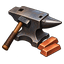
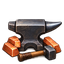
Remake profession props with four cardinal artwork views

diff --git a/tests/map-furniture.test.ts b/tests/map-furniture.test.ts
@@ -5,7 +5,7 @@ import {gridMap,buildingVisuals,craftingStations,modularFurniture,furniturePiece
 test('three connected counter cells wrap each corner NPC without changing authored collision',()=>{
  for(const station of craftingStations){if(!('bench'in station))continue;
  const map=gridMap('elderwood'),before=[...map.blocked],visuals=buildingVisuals('elderwood',map.objects,false),pieces=visuals.filter(o=>o.sourceKey===station.bench.key);
- const bases=pieces.filter(p=>p.key.startsWith('counter-connected-'));assert.equal(bases.length,3);assert.equal(pieces.filter(p=>p.key.startsWith('counter-tools-')).length,1);
+ const bases=pieces.filter(p=>p.key.startsWith('counter-connected-'));assert.equal(bases.length,3);assert.equal(pieces.filter(p=>p.key.startsWith('counter-tools-')).length,1);assert.ok(pieces.some(p=>p.key===`counter-tools-${station.skills[0]}-${station.npc.facing}`));
  for(const [x,y]of station.bench.cells){const p=bases.find(p=>p.x===x*48&&p.y===(y-.25)*48)!;assert.ok(p);assert.equal(p.w,48);assert.equal(p.h,60);assert.ok(map.blocked.has(`${x},${y}`));
  const mask=Number(p.key.split('-').at(-1));const cells=new Set(station.bench.cells.map(([x,y])=>`${x},${y}`));
  for(const [dx,dy,bit]of [[0,-1,1],[1,0,2],[0,1,4],[-1,0,8]])assert.equal(!!(mask&bit),cells.has(`${x+dx},${y+dy}`));
@@ -18,4 +18,12 @@ test('all modular furniture uses one native scale with reusable ends and no inte
  for(const [i,p]of pieces.entries()){const file=new URL(`../assets/world/objects/${p.key}.png`,import.meta.url);assert.ok(existsSync(file),p.key);const data=readFileSync(file);assert.equal(p.w/data.readUInt32BE(16),p.h/data.readUInt32BE(20));assert.equal(p.sourceKey,object.key);if(i&&!object.key.startsWith('craft-bench-'))assert.equal(p.x,pieces[i-1].x+48);}
  }
  for(const corner of ['corner-nw','corner-ne','corner-sw','corner-se'] as const)assert.ok(existsSync(new URL(`../assets/world/objects/${furniturePiece('counter',corner,0,0).key}.png`,import.meta.url)));
+});
+
+test('profession items have four separately drawn cardinal views with stable padded canvases',()=>{
+ for(const skill of ['blacksmithing','woodworking','cooking','alchemy']){
+  const views=['down','left','right','up'].map(facing=>readFileSync(new URL(`../assets/world/objects/counter-tools-${skill}-${facing}.png`,import.meta.url)));
+  for(const png of views){assert.equal(png.readUInt32BE(16),64);assert.equal(png.readUInt32BE(20),64);}
+  assert.equal(new Set(views.map(png=>png.toString('base64'))).size,4,skill+' needs four distinct images');
+ }
 });

diff --git a/packages/game-data/src/map-furniture.ts b/packages/game-data/src/map-furniture.ts
@@ -13,7 +13,7 @@ export function modularFurniture(object:IslandObject):FurniturePiece[]|undefined
   return cells.flatMap(([x,y],i)=>{
    const mask=(occupied.has(`${x},${y-1}`)?1:0)|(occupied.has(`${x+1},${y}`)?2:0)|(occupied.has(`${x},${y+1}`)?4:0)|(occupied.has(`${x-1},${y}`)?8:0);
    const base={...mapObject(`counter-connected-${mask}`,x*48,(y-.25)*48,48,60),footY:(y+1)*48,sourceKey:object.key};
-   return i===1?[base,{...mapObject(`counter-tools-${skill}`,(x+.0625)*48,(y-.28)*48,42,42),footY:(y+1)*48+.1,sourceKey:object.key}]:[base];
+   return i===1?[base,{...mapObject(`counter-tools-${skill}-${station.npc.facing}`,(x+.0625)*48,(y-.28)*48,42,42),footY:(y+1)*48+.1,sourceKey:object.key}]:[base];
   });
  }
  const family=/^furn-counter-/.test(object.key)?'counter':/^furn-(meeting|table)-/.test(object.key)?'table':/^furn-bench-/.test(object.key)?'bench':/^furn-bookshelf-/.test(object.key)?'shelf':undefined;

diff --git a/scripts/extract-counter-tools.py b/scripts/extract-counter-tools.py
@@ -1,15 +1,24 @@
-"""Pack generated tool clusters; keep the original atlas unchanged."""
+"""Pack four purpose-drawn cardinal views per profession; preserve atlas unchanged."""
 from pathlib import Path
 from PIL import Image
 root=Path(__file__).resolve().parents[1]
-im=Image.open(root/'assets/world/crafting-hall/tools-master.png').convert('RGBA')
+im=Image.open(root/'assets/world/crafting-hall/tools-directions-master.png').convert('RGBA')
 w,h=im.size
-for index,name in enumerate(['blacksmithing','woodworking','cooking','alchemy']):
- x,y=(index%2)*w//2,(index//2)*h//2
- part=im.crop((x,y,x+w//2,y+h//2))
- bounds=part.getchannel('A').point(lambda a:255 if a>16 else 0).getbbox()
- assert bounds,name
- part=part.crop(bounds);part.thumbnail((60,60),Image.Resampling.LANCZOS)
- out=Image.new('RGBA',(64,64));out.alpha_composite(part,((64-part.width)//2,(64-part.height)//2))
- out.save(root/f'assets/world/objects/counter-tools-{name}.png')
- print(name,im.size,bounds,out.getchannel('A').getextrema())
+# Measured transparent row gutters; the tall retorts extend above an equal quarter.
+rows=[(0,320),(320,620),(620,885),(885,h)]
+for row,name in enumerate(['blacksmithing','woodworking','cooking','alchemy']):
+ parts=[]
+ for col,facing in enumerate(['down','left','right','up']):
+  top,bottom=rows[row]
+  part=im.crop((col*w//4,top,(col+1)*w//4,bottom))
+  bounds=part.getchannel('A').point(lambda a:255 if a>16 else 0).getbbox()
+  assert bounds,(name,facing)
+  parts.append((facing,part.crop(bounds)))
+ scale=min(60/max(p.width for _,p in parts),60/max(p.height for _,p in parts))
+ for facing,part in parts:
+  part=part.resize((round(part.width*scale),round(part.height*scale)),Image.Resampling.LANCZOS)
+  out=Image.new('RGBA',(64,64));out.alpha_composite(part,((64-part.width)//2,62-part.height))
+  out.save(root/f'assets/world/objects/counter-tools-{name}-{facing}.png')
+  # Keep the prior public front key available for existing map placements.
+  if facing=='down':out.save(root/f'assets/world/objects/counter-tools-{name}.png')
+  print(name,facing,part.size,out.getchannel('A').getextrema())

diff --git a/assets/world/crafting-hall/README.md b/assets/world/crafting-hall/README.md
@@ -27,3 +27,20 @@ these tool sprites. Characters remain approved reference-based skins.
 parts with `npm run art:crafting-hall` (Pillow plus Playwright/Chromium required).
 Original generation output is also retained in `/workspace/generated_images` in
 the development environment; the committed master is the portable source.
+
+## Four-angle profession props
+
+`tools-directions-master.png` is the current generated master. Rows are
+blacksmithing, woodworking, cooking and alchemy. Columns are front/down, left,
+right and back/up. Each view is drawn separately, not produced by flipping or
+rotating a front sprite. The previous `tools-master.png` remains preserved.
+
+`extract-counter-tools.py` packs all 16 views into 64×64 RGBA canvases, using
+measured transparent row gutters (including the tall retorts), one scale per
+profession across all four angles, a shared baseline at pixel 62,
+and at least two pixels of padding. Front aliases remain compatible with old
+placements. Runtime uses `counter-tools-{profession}-{down|left|right|up}`;
+Crafting Hall selects the view from the NPC's customer-facing direction.
+
+All new map item artwork should supply these four cardinal views. Do not create
+a directional view by rotating a finished 2D sprite.

diff --git a/docs/modular-map-items.md b/docs/modular-map-items.md
@@ -11,3 +11,7 @@ Keep discrete objects (trees, rocks, chests, barrels, lamps, stairs and similar 
 Sources: `assets/world/architecture/modular-furniture/*.svg`. Regenerate committed transparent runtime PNGs using `npm run art:map-furniture` (Playwright and Chromium required). Wood comes from the existing architectural material swatch. Previous painted furniture and crafting masters are preserved. The old bench extraction command does not replace the modular runtime pieces.
 
 Placement and collision data are unchanged by visual expansion. No save migration, recipe, price or profession changes are involved.
+
+Every new item sprite set must include front (`down`), left, right and back
+(`up`) views, with matching scale, palette and baseline. Profession tool sets
+provide all four; hall props select the view matching their NPC's facing.
